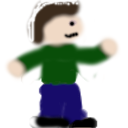
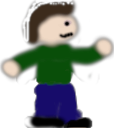
Update 2.0_Final

diff --git a/game.py b/game.py
@@ -1,0 +1,199 @@
+import pygame
+import random
+import time
+
+# Fenstergröße
+WIDTH = 800
+HEIGHT = 600
+
+# Farben
+BLUE = (0, 0, 255)
+
+# Spieler Eigenschaften
+PLAYER_WIDTH = 128
+PLAYER_HEIGHT = 128
+PLAYER_VELOCITY = 8
+JUMP_VELOCITY = 10
+GRAVITY = 0.5
+
+# Plattform Eigenschaften
+PLATFORM_WIDTH = 150
+PLATFORM_HEIGHT = 120
+PLATFORM_VELOCITY = 5
+PLATFORM_GAP = 300  # Horizontaler Abstand zwischen den Plattformen
+BACKGROUND = pygame.transform.scale(pygame.image.load("images/bg_2.png"), (1400, 1000))
+BACKGROUNDLAVA = pygame.transform.scale(pygame.image.load("images/lava.jpg"), (1800, 50))
+BACKGROUNDLAVA_END = pygame.transform.scale(pygame.image.load("images/lava.jpg"), (1600, 1200))
+TUTORIAL_IMAGE = pygame.transform.scale(pygame.image.load("images/start.png"), (830, 475))
+
+
+highscorer = open('./Highscore.txt')
+Highscore_save = highscorer.read()
+highscorer.close()
+
+pygame.init()
+screen = pygame.display.set_mode((WIDTH, HEIGHT))
+pygame.display.set_caption("Jump and Run Spiel")
+
+clock = pygame.time.Clock()
+
+class Player(pygame.sprite.Sprite):
+    def __init__(self):
+        super().__init__()
+        self.image = pygame.image.load("images/c1_run.png")
+        self.image = pygame.transform.scale(self.image, (PLAYER_WIDTH, PLAYER_WIDTH))
+        self.rect = self.image.get_rect()
+        self.rect.x = WIDTH // 2
+        self.rect.y = HEIGHT - PLAYER_HEIGHT
+        self.velocity_y = 0
+        self.on_ground = False
+
+    def update(self):
+        self.velocity_y += GRAVITY
+
+        keys = pygame.key.get_pressed()
+        if keys[pygame.K_a]:
+            self.rect.x -= PLAYER_VELOCITY
+        if keys[pygame.K_d]:
+            self.rect.x += PLAYER_VELOCITY - 5
+
+        self.rect.y += self.velocity_y
+
+        if self.rect.y >= HEIGHT - PLAYER_HEIGHT:
+            self.rect.y = HEIGHT - PLAYER_HEIGHT
+            self.velocity_y = 0
+            self.on_ground = True
+
+class Platform(pygame.sprite.Sprite):
+    def __init__(self, x, y, image_path):
+        super().__init__()
+        self.image = pygame.image.load(image_path)
+        self.image = pygame.transform.scale(self.image, (PLATFORM_WIDTH, PLATFORM_HEIGHT))
+        self.rect = self.image.get_rect()
+        self.rect.x = x
+        self.rect.y = y
+
+    def update(self):
+        self.rect.x -= PLATFORM_VELOCITY
+        if self.rect.right < 0:
+            self.rect.x = WIDTH + 252 + random.randint(50, 250)
+            self.rect.y = random.randint(490, 510)
+
+platforms = pygame.sprite.Group()
+
+font = pygame.font.Font(None, 36)
+
+def draw_score(score):
+    text = font.render("Score: " + str(score), True, (1,1,1))
+    screen.blit(text, (500, 10))
+
+def draw_HI_score(score):
+    text = font.render("Highscore: " + str(score), True, (1,1,1))
+    screen.blit(text, (10, 10))
+def draw(text, w):
+    text = font.render(text, True, (1,1,1))
+    screen.blit(text, (300, 250+w))
+
+all_sprites = pygame.sprite.Group()
+
+player = Player()
+all_sprites.add(player)
+
+# Plattformen erstellen
+platform_images = ["images/table.png"]  # Liste der Plattform-Bilder
+
+for i in range(5):
+    platform_image = random.choice(platform_images)
+    platform = Platform(WIDTH + i * random.randint(PLATFORM_GAP, PLATFORM_GAP + 100),
+                        random.randint(550, 600), platform_image)
+    platforms.add(platform)
+    all_sprites.add(platform)
+
+score = 0
+running = False
+startscreen = True
+end = False
+
+while startscreen:
+    for event in pygame.event.get():
+        if event.type == pygame.QUIT:
+            startscreen = False
+    keys_pressed = pygame.key.get_pressed()
+    
+    if keys_pressed[pygame.K_SPACE]:
+        startscreen = False
+        running = True
+    screen.fill((255, 255, 255))
+    start_rect = TUTORIAL_IMAGE.get_rect(center=(400, 250))
+    screen.blit(TUTORIAL_IMAGE, start_rect)
+    
+    clock.tick(60)
+    pygame.display.flip()
+
+S_TIME = time.time()  # Startzeit des Spiels
+while running:
+    for event in pygame.event.get():
+        if event.type == pygame.QUIT:
+            end = False
+
+        if event.type == pygame.KEYDOWN and event.key == pygame.K_SPACE and player.on_ground:
+            player.image = pygame.image.load("images/c1_jump.png")
+            player.image = pygame.transform.scale(player.image, (PLAYER_WIDTH-30, PLAYER_WIDTH))
+            player.velocity_y -= JUMP_VELOCITY
+            player.on_ground = False
+
+    all_sprites.update()
+
+    collision = pygame.sprite.spritecollide(player, platforms, False)
+    if collision:
+        # Korrigiere die Position des Spielers auf der Plattform
+        player.image = pygame.image.load("images/c1_run.png")
+        player.image = pygame.transform.scale(player.image, (PLAYER_WIDTH, PLAYER_WIDTH))
+        player.rect.y = collision[0].rect.y - PLAYER_HEIGHT
+        player.velocity_y = 0
+        player.on_ground = True
+        score += 10
+
+    screen.fill((255, 255, 255))
+    bg0_rect = BACKGROUND.get_rect(center=(100, 250))
+    screen.blit(BACKGROUND, bg0_rect)
+    bg1_rect = BACKGROUNDLAVA.get_rect(center=(0, 600))
+    screen.blit(BACKGROUNDLAVA, bg1_rect)
+    all_sprites.draw(screen)
+    draw_score(score)
+    draw_HI_score(Highscore_save)
+    pygame.display.flip()
+    clock.tick(60)
+    print(score)
+
+    TIMER = time.time() - S_TIME  # Verstrichene Zeit seit Spielbeginn
+    if TIMER >= 3 and player.rect.y >= HEIGHT - PLAYER_HEIGHT:
+        with open('Highscore.txt' , 'w') as Highscore:
+            hread = Highscore_save
+            print(Highscore_save)
+            if Highscore_save == "":
+                Highscore_save = "0"
+            #print (hread1)
+            if score > int(Highscore_save):
+                Highscore.write(str(score))
+            else:
+                Highscore.write(Highscore_save)            
+        running = False
+        end = True
+while end:
+    for event in pygame.event.get():
+        if event.type == pygame.QUIT:
+            end = False
+        if event.type == pygame.KEYDOWN and event.key == pygame.K_SPACE and player.on_ground:
+            end = False
+    screen.fill((255, 255, 255))
+    bg0_rect = BACKGROUNDLAVA_END.get_rect(center=(100, 250))
+    screen.blit(BACKGROUNDLAVA_END, bg0_rect)
+    draw("Du bist verbrannt...", 0)
+    draw("Drücke Space zum Beenden", 20)
+    draw_score(score)
+    draw_HI_score(Highscore_save)
+    pygame.display.flip()
+    clock.tick(60)
+
+pygame.quit()
